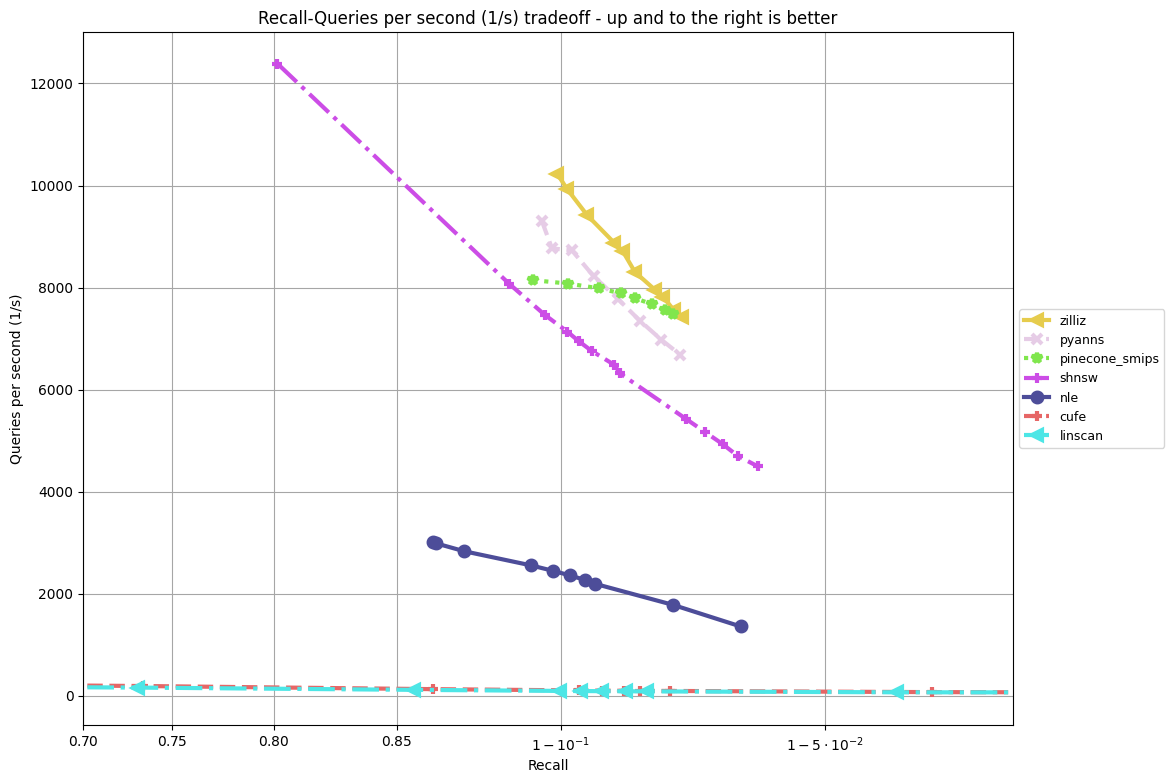
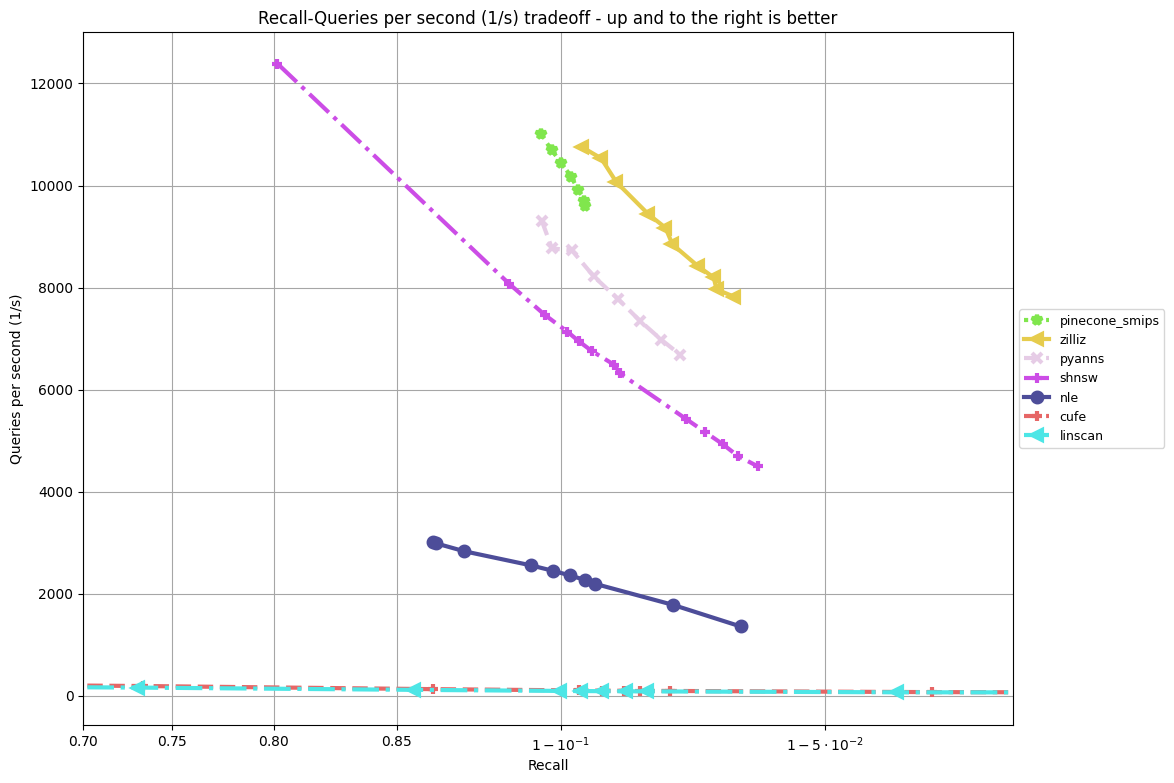
march_update

diff --git a/neurips23/ongoing_leaderboard/Azure_D8lds_v5_table.md b/neurips23/ongoing_leaderboard/Azure_D8lds_v5_table.md
@@ -12,8 +12,8 @@
 |                | faissplus                | 3776.539092  |
 |                | faiss                    | 3032.534357  |
 |                | cufe                     | 2917.132715  |
-| text2image-10M | pinecone-ood [*]         | 31643.011822 |
-| (OOD track)    | zilliz [*]               | 27585.042125 |
+| text2image-10M | pinecone-ood [*]         | 38087.669026 |
+| (OOD track)    | zilliz [*]               | 33240.822128 |
 |                | mysteryann               | 22555.248017 |
 |                | pyanns                   | 22295.584534 |
 |                | mysteryann-dif           | 22491.577263 |
@@ -24,9 +24,9 @@
 |                | epsearch                 | 5876.982706  |
 |                | diskann                  | 4132.829728  |
 |                | cufe                     | 3561.416286  |
-| sparse-full    | zilliz [*]               | 9933.146877  |
-| (sparse track) | pyanns                   | 8732.172708  |
-|                | pinecone_smips [*]       | 8078.366327  |
+| sparse-full    | zilliz [*]               | 10749.188262 |
+| (sparse track) | pinecone_smips [*]       | 10439.909652 |
+|                | pyanns                   | 8732.172708  |
 |                | shnsw                    | 7136.927865  |
 |                | nle                      | 2358.590429  |
 |                | cufe                     | 104.768194   |
@@ -36,6 +36,4 @@
 
 Table lists highest QPS measured with at least 90% recall@10, on the *public* query set.
 
-Last evaluation date: Feb. 1st, 2024
-
-Next evaluation date: March 1st, 2024
+Last evaluation date: March 1st, 2024 (includes all submission until March 1st, 2024, AOE)

diff --git a/neurips23/ongoing_leaderboard/leaderboard.md b/neurips23/ongoing_leaderboard/leaderboard.md
@@ -31,7 +31,7 @@ While the highest achieved recall@10 is 0.99786 (by pinecone), the similar submi
 
 ## Ongoing Leaderboard Rules
 
-The leaderboard is evaluated periodically, collecting new algorithm submissions. The current update is from Feb. 1st, 2024. The next update is scheduled to March 1st.
+The leaderboard is evaluated periodically, collecting new algorithm submissions. The current update is from March. 1st, 2024.
 
 The rules of the ongoing leaderboard are similar to the original competition, with the following exceptions:
 - Open source is encouraged but not enforced. Closed-source entries will be marked as such. In any case, a short description of the algorithm is required. 
